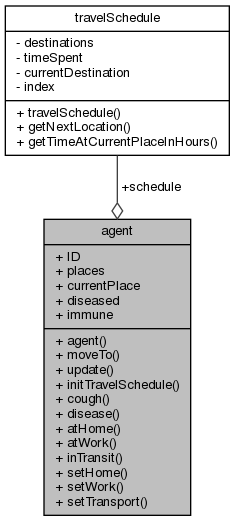
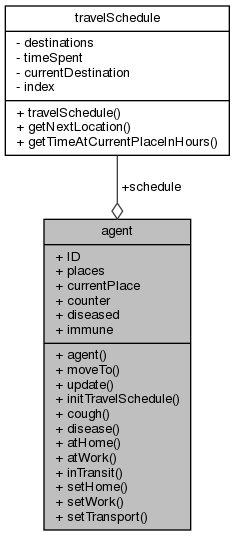
Updated timesteppping to be uniform

Changed region(s): [[0.1787, 0.3378, 0.834, 1.0], [0.0, 0.0, 0.983, 0.3071]]

diff --git a/html/classagent-members.html b/html/classagent-members.html
@@ -72,24 +72,25 @@ $(function() {
   <tr><td class="entry"><a class="el" href="classagent.html#a36efb38a3411908da18bb1b98071dc66">atHome</a>()</td><td class="entry"><a class="el" href="classagent.html">agent</a></td><td class="entry"><span class="mlabel">inline</span></td></tr>
   <tr class="even"><td class="entry"><a class="el" href="classagent.html#a1911596a9fc1d9ad237060ef265cac10">atWork</a>()</td><td class="entry"><a class="el" href="classagent.html">agent</a></td><td class="entry"><span class="mlabel">inline</span></td></tr>
   <tr><td class="entry"><a class="el" href="classagent.html#a958d3d4ffc3c372136459b08f5e4a457">cough</a>()</td><td class="entry"><a class="el" href="classagent.html">agent</a></td><td class="entry"></td></tr>
-  <tr class="even"><td class="entry"><a class="el" href="classagent.html#a6c07bfb8b610ad493a4704643b4dcbcf">currentPlace</a></td><td class="entry"><a class="el" href="classagent.html">agent</a></td><td class="entry"></td></tr>
-  <tr><td class="entry"><a class="el" href="classagent.html#aeb3206d3dff2d3c23c998a7c341019f7">disease</a>()</td><td class="entry"><a class="el" href="classagent.html">agent</a></td><td class="entry"><span class="mlabel">inline</span></td></tr>
-  <tr class="even"><td class="entry"><a class="el" href="classagent.html#ac6c663bf79440b5dc58d548801ff86ea">diseased</a></td><td class="entry"><a class="el" href="classagent.html">agent</a></td><td class="entry"></td></tr>
-  <tr bgcolor="#f0f0f0"><td class="entry"><b>home</b> enum value (defined in <a class="el" href="classagent.html">agent</a>)</td><td class="entry"><a class="el" href="classagent.html">agent</a></td><td class="entry"></td></tr>
-  <tr class="even"><td class="entry"><a class="el" href="classagent.html#a1e931267336c34b3f7baa145e2c83337">ID</a></td><td class="entry"><a class="el" href="classagent.html">agent</a></td><td class="entry"></td></tr>
-  <tr><td class="entry"><a class="el" href="classagent.html#a3dd3064ae93b574be71a3c8418c4ef4e">immune</a></td><td class="entry"><a class="el" href="classagent.html">agent</a></td><td class="entry"></td></tr>
-  <tr class="even"><td class="entry"><a class="el" href="classagent.html#ae48983da3bd44f76516304ad7971292a">initTravelSchedule</a>()</td><td class="entry"><a class="el" href="classagent.html">agent</a></td><td class="entry"></td></tr>
-  <tr><td class="entry"><a class="el" href="classagent.html#a4e61866b28fbc7cf1cbdbcba8c3dc6ce">inTransit</a>()</td><td class="entry"><a class="el" href="classagent.html">agent</a></td><td class="entry"><span class="mlabel">inline</span></td></tr>
-  <tr class="even"><td class="entry"><a class="el" href="classagent.html#a3e3e837166683b9258688473c61a70d9">moveTo</a>(placeTypes location)</td><td class="entry"><a class="el" href="classagent.html">agent</a></td><td class="entry"><span class="mlabel">inline</span></td></tr>
-  <tr><td class="entry"><a class="el" href="classagent.html#a4c741951d20af843a264d2dd8dc750d2">places</a></td><td class="entry"><a class="el" href="classagent.html">agent</a></td><td class="entry"></td></tr>
-  <tr class="even"><td class="entry"><a class="el" href="classagent.html#ae4db97692e30c160de5af4be250d06b4">placeTypes</a> enum name</td><td class="entry"><a class="el" href="classagent.html">agent</a></td><td class="entry"></td></tr>
-  <tr><td class="entry"><a class="el" href="classagent.html#a210486017d5e7d710adc8468df9b7369">schedule</a></td><td class="entry"><a class="el" href="classagent.html">agent</a></td><td class="entry"></td></tr>
-  <tr class="even"><td class="entry"><a class="el" href="classagent.html#a99f7643279e1522a11bd01b210eb7a03">setHome</a>(place *pu)</td><td class="entry"><a class="el" href="classagent.html">agent</a></td><td class="entry"><span class="mlabel">inline</span></td></tr>
-  <tr><td class="entry"><a class="el" href="classagent.html#a000bee8a37f8ab7ff9a74cd8db1a3a75">setTransport</a>(place *pu)</td><td class="entry"><a class="el" href="classagent.html">agent</a></td><td class="entry"><span class="mlabel">inline</span></td></tr>
-  <tr class="even"><td class="entry"><a class="el" href="classagent.html#a8784dcb12921be1b29d67c54747b78ac">setWork</a>(place *pu)</td><td class="entry"><a class="el" href="classagent.html">agent</a></td><td class="entry"><span class="mlabel">inline</span></td></tr>
-  <tr><td class="entry"><a class="el" href="classagent.html#ae20b0b8a169fb7a459c7b195bb970d80">update</a>()</td><td class="entry"><a class="el" href="classagent.html">agent</a></td><td class="entry"></td></tr>
-  <tr bgcolor="#f0f0f0" class="even"><td class="entry"><b>vehicle</b> enum value (defined in <a class="el" href="classagent.html">agent</a>)</td><td class="entry"><a class="el" href="classagent.html">agent</a></td><td class="entry"></td></tr>
-  <tr bgcolor="#f0f0f0"><td class="entry"><b>work</b> enum value (defined in <a class="el" href="classagent.html">agent</a>)</td><td class="entry"><a class="el" href="classagent.html">agent</a></td><td class="entry"></td></tr>
+  <tr class="even"><td class="entry"><a class="el" href="classagent.html#a00cccd3131aa23008526107ce4a58025">counter</a></td><td class="entry"><a class="el" href="classagent.html">agent</a></td><td class="entry"></td></tr>
+  <tr><td class="entry"><a class="el" href="classagent.html#a6c07bfb8b610ad493a4704643b4dcbcf">currentPlace</a></td><td class="entry"><a class="el" href="classagent.html">agent</a></td><td class="entry"></td></tr>
+  <tr class="even"><td class="entry"><a class="el" href="classagent.html#aeb3206d3dff2d3c23c998a7c341019f7">disease</a>()</td><td class="entry"><a class="el" href="classagent.html">agent</a></td><td class="entry"><span class="mlabel">inline</span></td></tr>
+  <tr><td class="entry"><a class="el" href="classagent.html#ac6c663bf79440b5dc58d548801ff86ea">diseased</a></td><td class="entry"><a class="el" href="classagent.html">agent</a></td><td class="entry"></td></tr>
+  <tr bgcolor="#f0f0f0" class="even"><td class="entry"><b>home</b> enum value (defined in <a class="el" href="classagent.html">agent</a>)</td><td class="entry"><a class="el" href="classagent.html">agent</a></td><td class="entry"></td></tr>
+  <tr><td class="entry"><a class="el" href="classagent.html#a1e931267336c34b3f7baa145e2c83337">ID</a></td><td class="entry"><a class="el" href="classagent.html">agent</a></td><td class="entry"></td></tr>
+  <tr class="even"><td class="entry"><a class="el" href="classagent.html#a3dd3064ae93b574be71a3c8418c4ef4e">immune</a></td><td class="entry"><a class="el" href="classagent.html">agent</a></td><td class="entry"></td></tr>
+  <tr><td class="entry"><a class="el" href="classagent.html#ae48983da3bd44f76516304ad7971292a">initTravelSchedule</a>()</td><td class="entry"><a class="el" href="classagent.html">agent</a></td><td class="entry"></td></tr>
+  <tr class="even"><td class="entry"><a class="el" href="classagent.html#a4e61866b28fbc7cf1cbdbcba8c3dc6ce">inTransit</a>()</td><td class="entry"><a class="el" href="classagent.html">agent</a></td><td class="entry"><span class="mlabel">inline</span></td></tr>
+  <tr><td class="entry"><a class="el" href="classagent.html#a3e3e837166683b9258688473c61a70d9">moveTo</a>(placeTypes location)</td><td class="entry"><a class="el" href="classagent.html">agent</a></td><td class="entry"><span class="mlabel">inline</span></td></tr>
+  <tr class="even"><td class="entry"><a class="el" href="classagent.html#a4c741951d20af843a264d2dd8dc750d2">places</a></td><td class="entry"><a class="el" href="classagent.html">agent</a></td><td class="entry"></td></tr>
+  <tr><td class="entry"><a class="el" href="classagent.html#ae4db97692e30c160de5af4be250d06b4">placeTypes</a> enum name</td><td class="entry"><a class="el" href="classagent.html">agent</a></td><td class="entry"></td></tr>
+  <tr class="even"><td class="entry"><a class="el" href="classagent.html#a210486017d5e7d710adc8468df9b7369">schedule</a></td><td class="entry"><a class="el" href="classagent.html">agent</a></td><td class="entry"></td></tr>
+  <tr><td class="entry"><a class="el" href="classagent.html#a99f7643279e1522a11bd01b210eb7a03">setHome</a>(place *pu)</td><td class="entry"><a class="el" href="classagent.html">agent</a></td><td class="entry"><span class="mlabel">inline</span></td></tr>
+  <tr class="even"><td class="entry"><a class="el" href="classagent.html#a000bee8a37f8ab7ff9a74cd8db1a3a75">setTransport</a>(place *pu)</td><td class="entry"><a class="el" href="classagent.html">agent</a></td><td class="entry"><span class="mlabel">inline</span></td></tr>
+  <tr><td class="entry"><a class="el" href="classagent.html#a8784dcb12921be1b29d67c54747b78ac">setWork</a>(place *pu)</td><td class="entry"><a class="el" href="classagent.html">agent</a></td><td class="entry"><span class="mlabel">inline</span></td></tr>
+  <tr class="even"><td class="entry"><a class="el" href="classagent.html#ae20b0b8a169fb7a459c7b195bb970d80">update</a>()</td><td class="entry"><a class="el" href="classagent.html">agent</a></td><td class="entry"></td></tr>
+  <tr bgcolor="#f0f0f0"><td class="entry"><b>vehicle</b> enum value (defined in <a class="el" href="classagent.html">agent</a>)</td><td class="entry"><a class="el" href="classagent.html">agent</a></td><td class="entry"></td></tr>
+  <tr bgcolor="#f0f0f0" class="even"><td class="entry"><b>work</b> enum value (defined in <a class="el" href="classagent.html">agent</a>)</td><td class="entry"><a class="el" href="classagent.html">agent</a></td><td class="entry"></td></tr>
 </table></div><!-- contents -->
 <!-- start footer part -->
 <hr class="footer"/><address class="footer"><small>

diff --git a/html/classmodel.html b/html/classmodel.html
@@ -86,10 +86,10 @@ Public Member Functions</h2></td></tr>
 <tr class="memdesc:af42303eeaa7dbbe289a5a5ecd33d67ee"><td class="mdescLeft">&#160;</td><td class="mdescRight">Set up the agents and places, and allocate agents to homes, workplaces, vehicles. <br />
 .  <a href="#af42303eeaa7dbbe289a5a5ecd33d67ee">More...</a><br /></td></tr>
 <tr class="separator:af42303eeaa7dbbe289a5a5ecd33d67ee"><td class="memSeparator" colspan="2">&#160;</td></tr>
-<tr class="memitem:a59936e7de265a4517bad2cd60e540880"><td class="memItemLeft" align="right" valign="top">void&#160;</td><td class="memItemRight" valign="bottom"><a class="el" href="classmodel.html#a59936e7de265a4517bad2cd60e540880">step</a> (int num, <a class="el" href="classparameterSettings.html">parameterSettings</a> parameters)</td></tr>
-<tr class="memdesc:a59936e7de265a4517bad2cd60e540880"><td class="mdescLeft">&#160;</td><td class="mdescRight">Advance the model time step <br />
-.  <a href="#a59936e7de265a4517bad2cd60e540880">More...</a><br /></td></tr>
-<tr class="separator:a59936e7de265a4517bad2cd60e540880"><td class="memSeparator" colspan="2">&#160;</td></tr>
+<tr class="memitem:ad6414c61f776b1d4802ebffcd46b341a"><td class="memItemLeft" align="right" valign="top">void&#160;</td><td class="memItemRight" valign="bottom"><a class="el" href="classmodel.html#ad6414c61f776b1d4802ebffcd46b341a">step</a> (int stepNumber, <a class="el" href="classparameterSettings.html">parameterSettings</a> parameters)</td></tr>
+<tr class="memdesc:ad6414c61f776b1d4802ebffcd46b341a"><td class="mdescLeft">&#160;</td><td class="mdescRight">Advance the model time step <br />
+.  <a href="#ad6414c61f776b1d4802ebffcd46b341a">More...</a><br /></td></tr>
+<tr class="separator:ad6414c61f776b1d4802ebffcd46b341a"><td class="memSeparator" colspan="2">&#160;</td></tr>
 </table><table class="memberdecls">
 <tr class="heading"><td colspan="2"><h2 class="groupheader"><a name="pri-attribs"></a>
 Private Attributes</h2></td></tr>
@@ -168,8 +168,8 @@ This simple intializer puts three agents in each home, 10 agents in each workpla
 
 </div>
 </div>
-<a id="a59936e7de265a4517bad2cd60e540880"></a>
-<h2 class="memtitle"><span class="permalink"><a href="#a59936e7de265a4517bad2cd60e540880">&#9670;&nbsp;</a></span>step()</h2>
+<a id="ad6414c61f776b1d4802ebffcd46b341a"></a>
+<h2 class="memtitle"><span class="permalink"><a href="#ad6414c61f776b1d4802ebffcd46b341a">&#9670;&nbsp;</a></span>step()</h2>
 
 <div class="memitem">
 <div class="memproto">
@@ -181,7 +181,7 @@ This simple intializer puts three agents in each home, 10 agents in each workpla
           <td class="memname">void model::step </td>
           <td>(</td>
           <td class="paramtype">int&#160;</td>
-          <td class="paramname"><em>num</em>, </td>
+          <td class="paramname"><em>stepNumber</em>, </td>
         </tr>
         <tr>
           <td class="paramkey"></td>

diff --git a/html/classagent.html b/html/classagent.html
@@ -127,6 +127,8 @@ Public Attributes</h2></td></tr>
 <tr class="separator:a6c07bfb8b610ad493a4704643b4dcbcf"><td class="memSeparator" colspan="2">&#160;</td></tr>
 <tr class="memitem:a210486017d5e7d710adc8468df9b7369"><td class="memItemLeft" align="right" valign="top"><a class="el" href="classtravelSchedule.html">travelSchedule</a> *&#160;</td><td class="memItemRight" valign="bottom"><a class="el" href="classagent.html#a210486017d5e7d710adc8468df9b7369">schedule</a></td></tr>
 <tr class="separator:a210486017d5e7d710adc8468df9b7369"><td class="memSeparator" colspan="2">&#160;</td></tr>
+<tr class="memitem:a00cccd3131aa23008526107ce4a58025"><td class="memItemLeft" align="right" valign="top">int&#160;</td><td class="memItemRight" valign="bottom"><a class="el" href="classagent.html#a00cccd3131aa23008526107ce4a58025">counter</a> =0</td></tr>
+<tr class="separator:a00cccd3131aa23008526107ce4a58025"><td class="memSeparator" colspan="2">&#160;</td></tr>
 <tr class="memitem:ac6c663bf79440b5dc58d548801ff86ea"><td class="memItemLeft" align="right" valign="top">bool&#160;</td><td class="memItemRight" valign="bottom"><a class="el" href="classagent.html#ac6c663bf79440b5dc58d548801ff86ea">diseased</a></td></tr>
 <tr class="separator:ac6c663bf79440b5dc58d548801ff86ea"><td class="memSeparator" colspan="2">&#160;</td></tr>
 <tr class="memitem:a3dd3064ae93b574be71a3c8418c4ef4e"><td class="memItemLeft" align="right" valign="top">bool&#160;</td><td class="memItemRight" valign="bottom"><a class="el" href="classagent.html#a3dd3064ae93b574be71a3c8418c4ef4e">immune</a></td></tr>
@@ -465,6 +467,21 @@ needs to be called every timestep </p>
 </div>
 </div>
 <h2 class="groupheader">Member Data Documentation</h2>
+<a id="a00cccd3131aa23008526107ce4a58025"></a>
+<h2 class="memtitle"><span class="permalink"><a href="#a00cccd3131aa23008526107ce4a58025">&#9670;&nbsp;</a></span>counter</h2>
+
+<div class="memitem">
+<div class="memproto">
+      <table class="memname">
+        <tr>
+          <td class="memname">int agent::counter =0</td>
+        </tr>
+      </table>
+</div><div class="memdoc">
+<p>Counts down the time spent at the current location </p>
+
+</div>
+</div>
 <a id="a6c07bfb8b610ad493a4704643b4dcbcf"></a>
 <h2 class="memtitle"><span class="permalink"><a href="#a6c07bfb8b610ad493a4704643b4dcbcf">&#9670;&nbsp;</a></span>currentPlace</h2>
 

diff --git a/html/index.html b/html/index.html
@@ -70,11 +70,13 @@ Introduction</h1>
 <p>This model is aimed at representing the patterns of movement and interaction of agents that represent individual people as they go about their daily activities. <br />
 The current version is intended to show how this can be done using a simple C++ program (using this language for speed of execution) <br />
 For this reason at the moment all code is in a single file. This can become unwieldy in a larger application though. <br />
- The current objective is to be able to model a simple disease, and to tie this to agent behaviour at the scale of an entire country. </p>
+ The current objective is to be able to model a simple disease, and to tie this to agent behaviour at the scale of an entire country.<br />
+Lopp parallelisation with openMP is used to accelerate execution if needed. </p>
 <h2><a class="anchor" id="Main"></a>
 Main ideas</h2>
 <p>Agents move between places according to a given fixed travel schedule. Places include transport vehicles. <br />
-In each place, agents with a disease can add contamination, which then decays exponentially over time. <br />
+In each place, agents with a disease can add contamination, which then decays exponentially over time <br />
+(or else it can be reset to zero at the start of each step - disease transmission then just depends on number of agents in any location)<br />
 The release of total contamination depends linearly on time spent in each location. <br />
 In a contaminated location, susceptible agents can pick up the infection - they then recover with a fixed chance per timestep, and are subsequently immune. </p>
 <h2><a class="anchor" id="Compiling"></a>

diff --git a/html/classdisease.html b/html/classdisease.html
@@ -91,7 +91,7 @@ Static Public Member Functions</h2></td></tr>
 Static Private Attributes</h2></td></tr>
 <tr class="memitem:af4bf8070d12d8520054a25abb3fe27eb"><td class="memItemLeft" align="right" valign="top">static float&#160;</td><td class="memItemRight" valign="bottom"><a class="el" href="classdisease.html#af4bf8070d12d8520054a25abb3fe27eb">recoveryRate</a> =0.002</td></tr>
 <tr class="separator:af4bf8070d12d8520054a25abb3fe27eb"><td class="memSeparator" colspan="2">&#160;</td></tr>
-<tr class="memitem:a3074a4bb5159116fe3ec0aabcbd30e18"><td class="memItemLeft" align="right" valign="top">static float&#160;</td><td class="memItemRight" valign="bottom"><a class="el" href="classdisease.html#a3074a4bb5159116fe3ec0aabcbd30e18">infectionShedLoad</a> =0.1</td></tr>
+<tr class="memitem:a3074a4bb5159116fe3ec0aabcbd30e18"><td class="memItemLeft" align="right" valign="top">static float&#160;</td><td class="memItemRight" valign="bottom"><a class="el" href="classdisease.html#a3074a4bb5159116fe3ec0aabcbd30e18">infectionShedLoad</a> =0.01</td></tr>
 <tr class="separator:a3074a4bb5159116fe3ec0aabcbd30e18"><td class="memSeparator" colspan="2">&#160;</td></tr>
 </table>
 <a name="details" id="details"></a><h2 class="groupheader">Detailed Description</h2>
@@ -190,7 +190,7 @@ The disadvantage of this is that the parameters are fixed outside teh class defi
   <td class="mlabels-left">
       <table class="memname">
         <tr>
-          <td class="memname">float disease::infectionShedLoad =0.1</td>
+          <td class="memname">float disease::infectionShedLoad =0.01</td>
         </tr>
       </table>
   </td>

diff --git a/html/classmodel-members.html b/html/classmodel-members.html
@@ -74,7 +74,7 @@ $(function() {
   <tr><td class="entry"><a class="el" href="classmodel.html#a963a35123dd2c0d243402d552f60acb8">nAgents</a></td><td class="entry"><a class="el" href="classmodel.html">model</a></td><td class="entry"><span class="mlabel">private</span></td></tr>
   <tr class="even"><td class="entry"><a class="el" href="classmodel.html#ac722a1dffbe6a56f2a934ef627e4e773">output</a></td><td class="entry"><a class="el" href="classmodel.html">model</a></td><td class="entry"><span class="mlabel">private</span></td></tr>
   <tr><td class="entry"><a class="el" href="classmodel.html#aee72909ff27b56311f1165d87955f16f">places</a></td><td class="entry"><a class="el" href="classmodel.html">model</a></td><td class="entry"><span class="mlabel">private</span></td></tr>
-  <tr class="even"><td class="entry"><a class="el" href="classmodel.html#a59936e7de265a4517bad2cd60e540880">step</a>(int num, parameterSettings parameters)</td><td class="entry"><a class="el" href="classmodel.html">model</a></td><td class="entry"><span class="mlabel">inline</span></td></tr>
+  <tr class="even"><td class="entry"><a class="el" href="classmodel.html#ad6414c61f776b1d4802ebffcd46b341a">step</a>(int stepNumber, parameterSettings parameters)</td><td class="entry"><a class="el" href="classmodel.html">model</a></td><td class="entry"><span class="mlabel">inline</span></td></tr>
 </table></div><!-- contents -->
 <!-- start footer part -->
 <hr class="footer"/><address class="footer"><small>

diff --git a/html/functions.html b/html/functions.html
@@ -92,6 +92,9 @@ $(function() {
 <li>cough()
 : <a class="el" href="classagent.html#a958d3d4ffc3c372136459b08f5e4a457">agent</a>
 </li>
+<li>counter
+: <a class="el" href="classagent.html#a00cccd3131aa23008526107ce4a58025">agent</a>
+</li>
 <li>currentDestination
 : <a class="el" href="classtravelSchedule.html#a2d62c8f71557a55ad93427f7606d72fa">travelSchedule</a>
 </li>
@@ -264,7 +267,7 @@ $(function() {
 : <a class="el" href="classtimeReporter.html#a2d18911f0ef9b37724cac84cfddc6b04">timeReporter</a>
 </li>
 <li>step()
-: <a class="el" href="classmodel.html#a59936e7de265a4517bad2cd60e540880">model</a>
+: <a class="el" href="classmodel.html#ad6414c61f776b1d4802ebffcd46b341a">model</a>
 </li>
 </ul>
 

diff --git a/html/search/all_1.js b/html/search/all_1.js
@@ -3,6 +3,7 @@ var searchData=
   ['cleancontamination',['cleanContamination',['../classplace.html#a8725d893d278015c93e8d5982ab2e505',1,'place']]],
   ['contaminationlevel',['contaminationLevel',['../classplace.html#a469c6655f3f469703a5ac70f64641bf2',1,'place']]],
   ['cough',['cough',['../classagent.html#a958d3d4ffc3c372136459b08f5e4a457',1,'agent']]],
+  ['counter',['counter',['../classagent.html#a00cccd3131aa23008526107ce4a58025',1,'agent']]],
   ['currentdestination',['currentDestination',['../classtravelSchedule.html#a2d62c8f71557a55ad93427f7606d72fa',1,'travelSchedule']]],
   ['currentplace',['currentPlace',['../classagent.html#a6c07bfb8b610ad493a4704643b4dcbcf',1,'agent']]]
 ];

diff --git a/html/search/all_b.js b/html/search/all_b.js
@@ -8,5 +8,5 @@ var searchData=
   ['shedinfection',['shedInfection',['../classdisease.html#a0dea757c15ccfb19227ffa3b94c6f67d',1,'disease']]],
   ['show',['show',['../classplace.html#ad237fd8ac1ef3ca1ba3abaaba6ff61d5',1,'place']]],
   ['showinterval',['showInterval',['../classtimeReporter.html#a2d18911f0ef9b37724cac84cfddc6b04',1,'timeReporter']]],
-  ['step',['step',['../classmodel.html#a59936e7de265a4517bad2cd60e540880',1,'model']]]
+  ['step',['step',['../classmodel.html#ad6414c61f776b1d4802ebffcd46b341a',1,'model']]]
 ];

diff --git a/html/search/functions_a.js b/html/search/functions_a.js
@@ -7,5 +7,5 @@ var searchData=
   ['shedinfection',['shedInfection',['../classdisease.html#a0dea757c15ccfb19227ffa3b94c6f67d',1,'disease']]],
   ['show',['show',['../classplace.html#ad237fd8ac1ef3ca1ba3abaaba6ff61d5',1,'place']]],
   ['showinterval',['showInterval',['../classtimeReporter.html#a2d18911f0ef9b37724cac84cfddc6b04',1,'timeReporter']]],
-  ['step',['step',['../classmodel.html#a59936e7de265a4517bad2cd60e540880',1,'model']]]
+  ['step',['step',['../classmodel.html#ad6414c61f776b1d4802ebffcd46b341a',1,'model']]]
 ];

diff --git a/html/search/variables_1.js b/html/search/variables_1.js
@@ -1,6 +1,7 @@
 var searchData=
 [
   ['contaminationlevel',['contaminationLevel',['../classplace.html#a469c6655f3f469703a5ac70f64641bf2',1,'place']]],
+  ['counter',['counter',['../classagent.html#a00cccd3131aa23008526107ce4a58025',1,'agent']]],
   ['currentdestination',['currentDestination',['../classtravelSchedule.html#a2d62c8f71557a55ad93427f7606d72fa',1,'travelSchedule']]],
   ['currentplace',['currentPlace',['../classagent.html#a6c07bfb8b610ad493a4704643b4dcbcf',1,'agent']]]
 ];

diff --git a/html/classplace.html b/html/classplace.html
@@ -333,7 +333,7 @@ Agents that are infected will increase this level while this is their currentPla
   </tr>
 </table>
 </div><div class="memdoc">
-<p>The contamination in each place decays exponentially. This function shoudl be called every time step <br />
+<p>The contamination in each place decays exponentially. This function shoudl be called every (uniform) time step <br />
 This way places without any currently infected agents gradually lose their infectiveness </p>
 
 </div>
